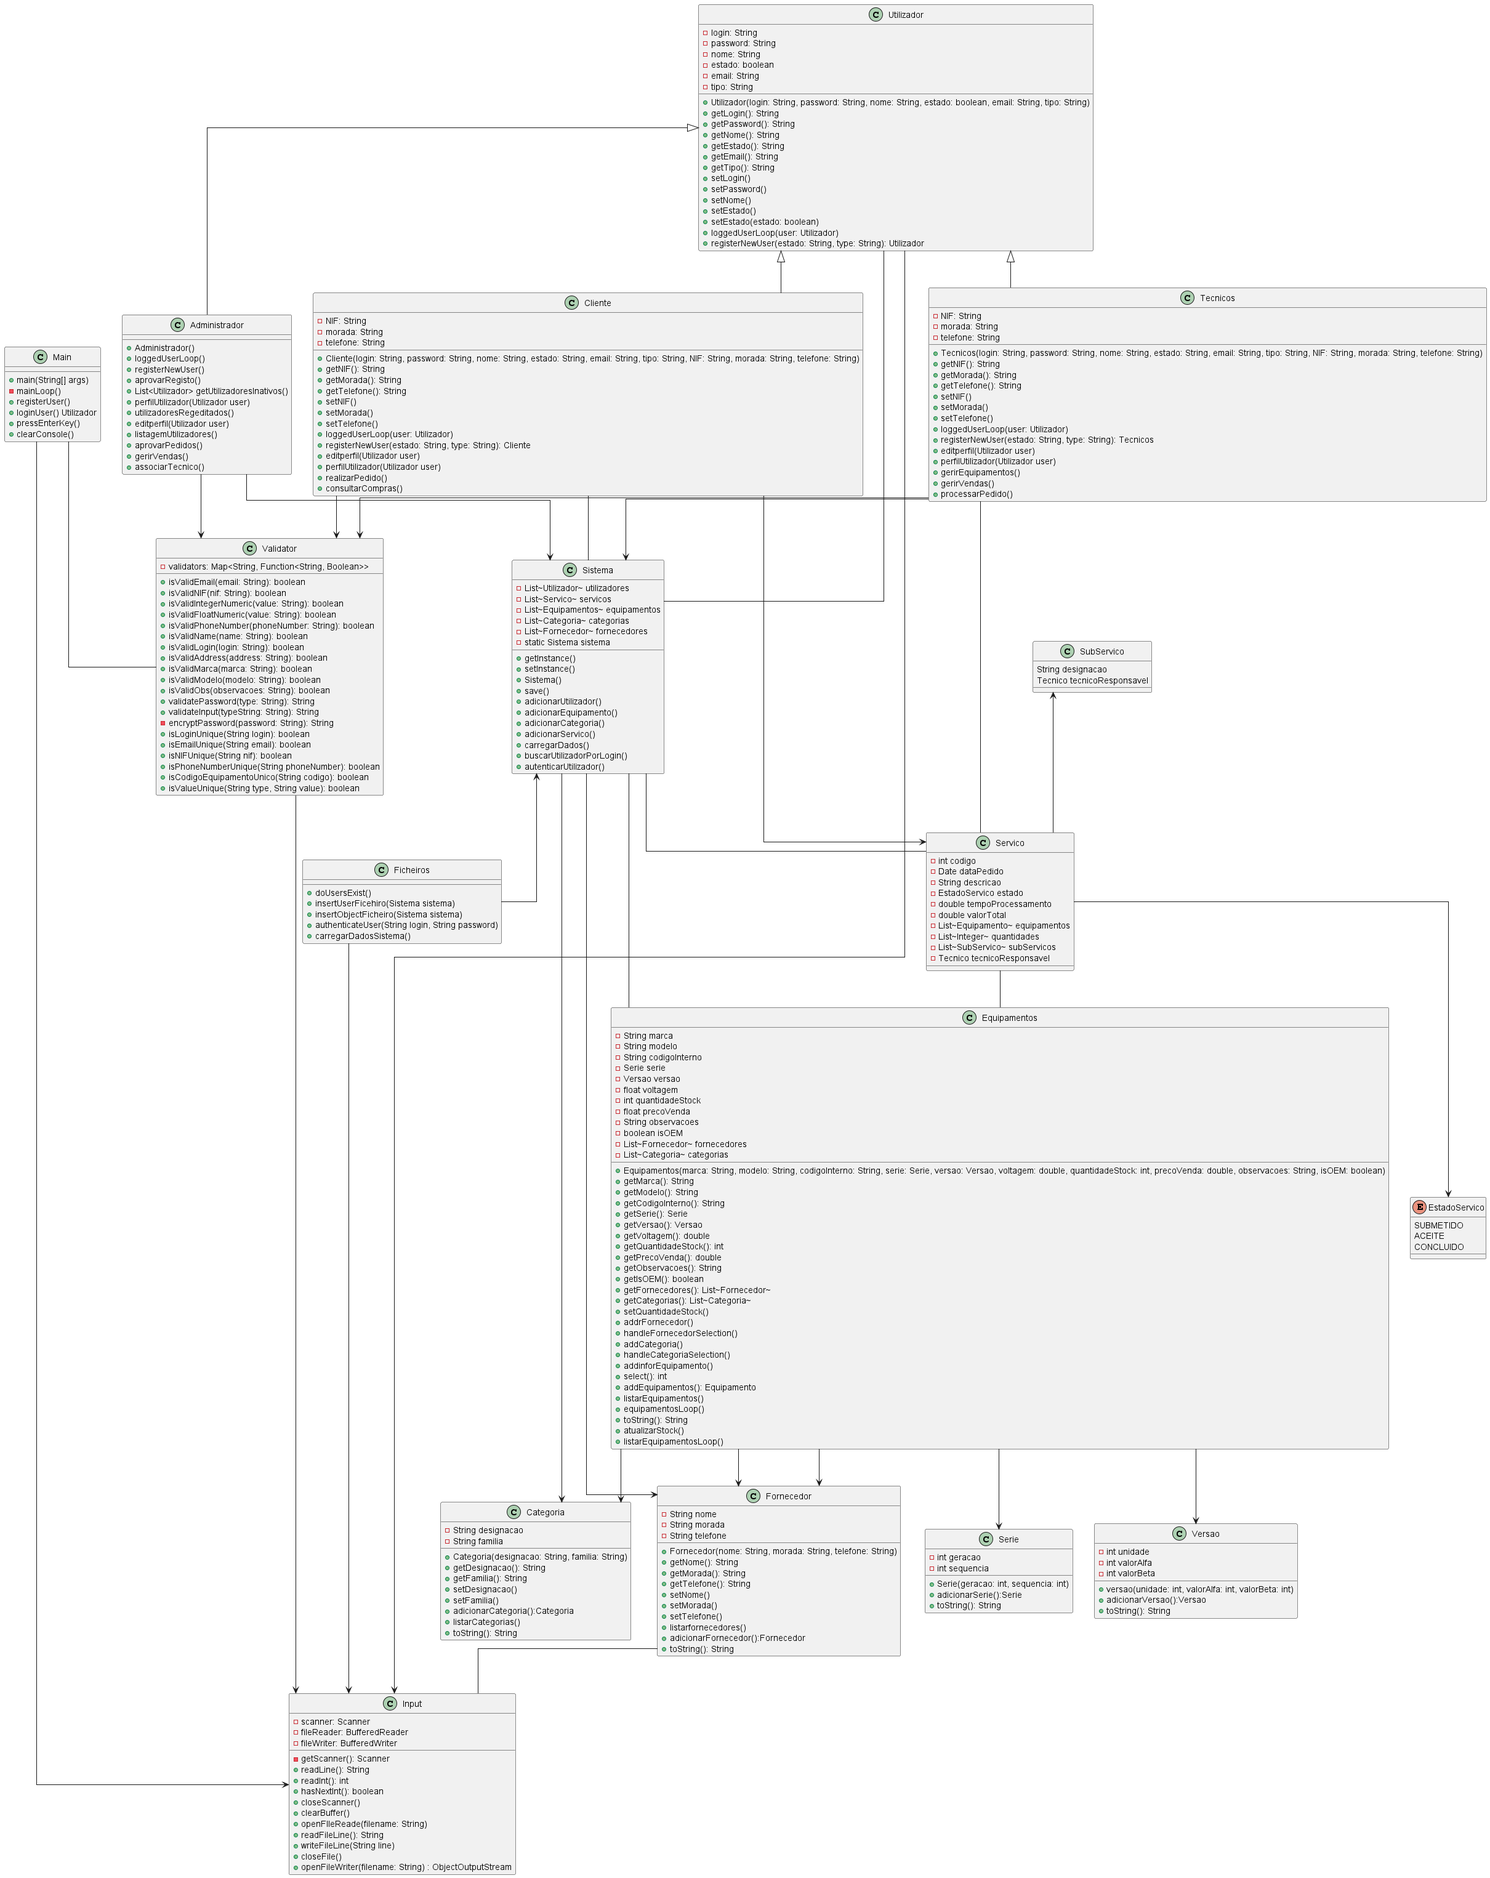
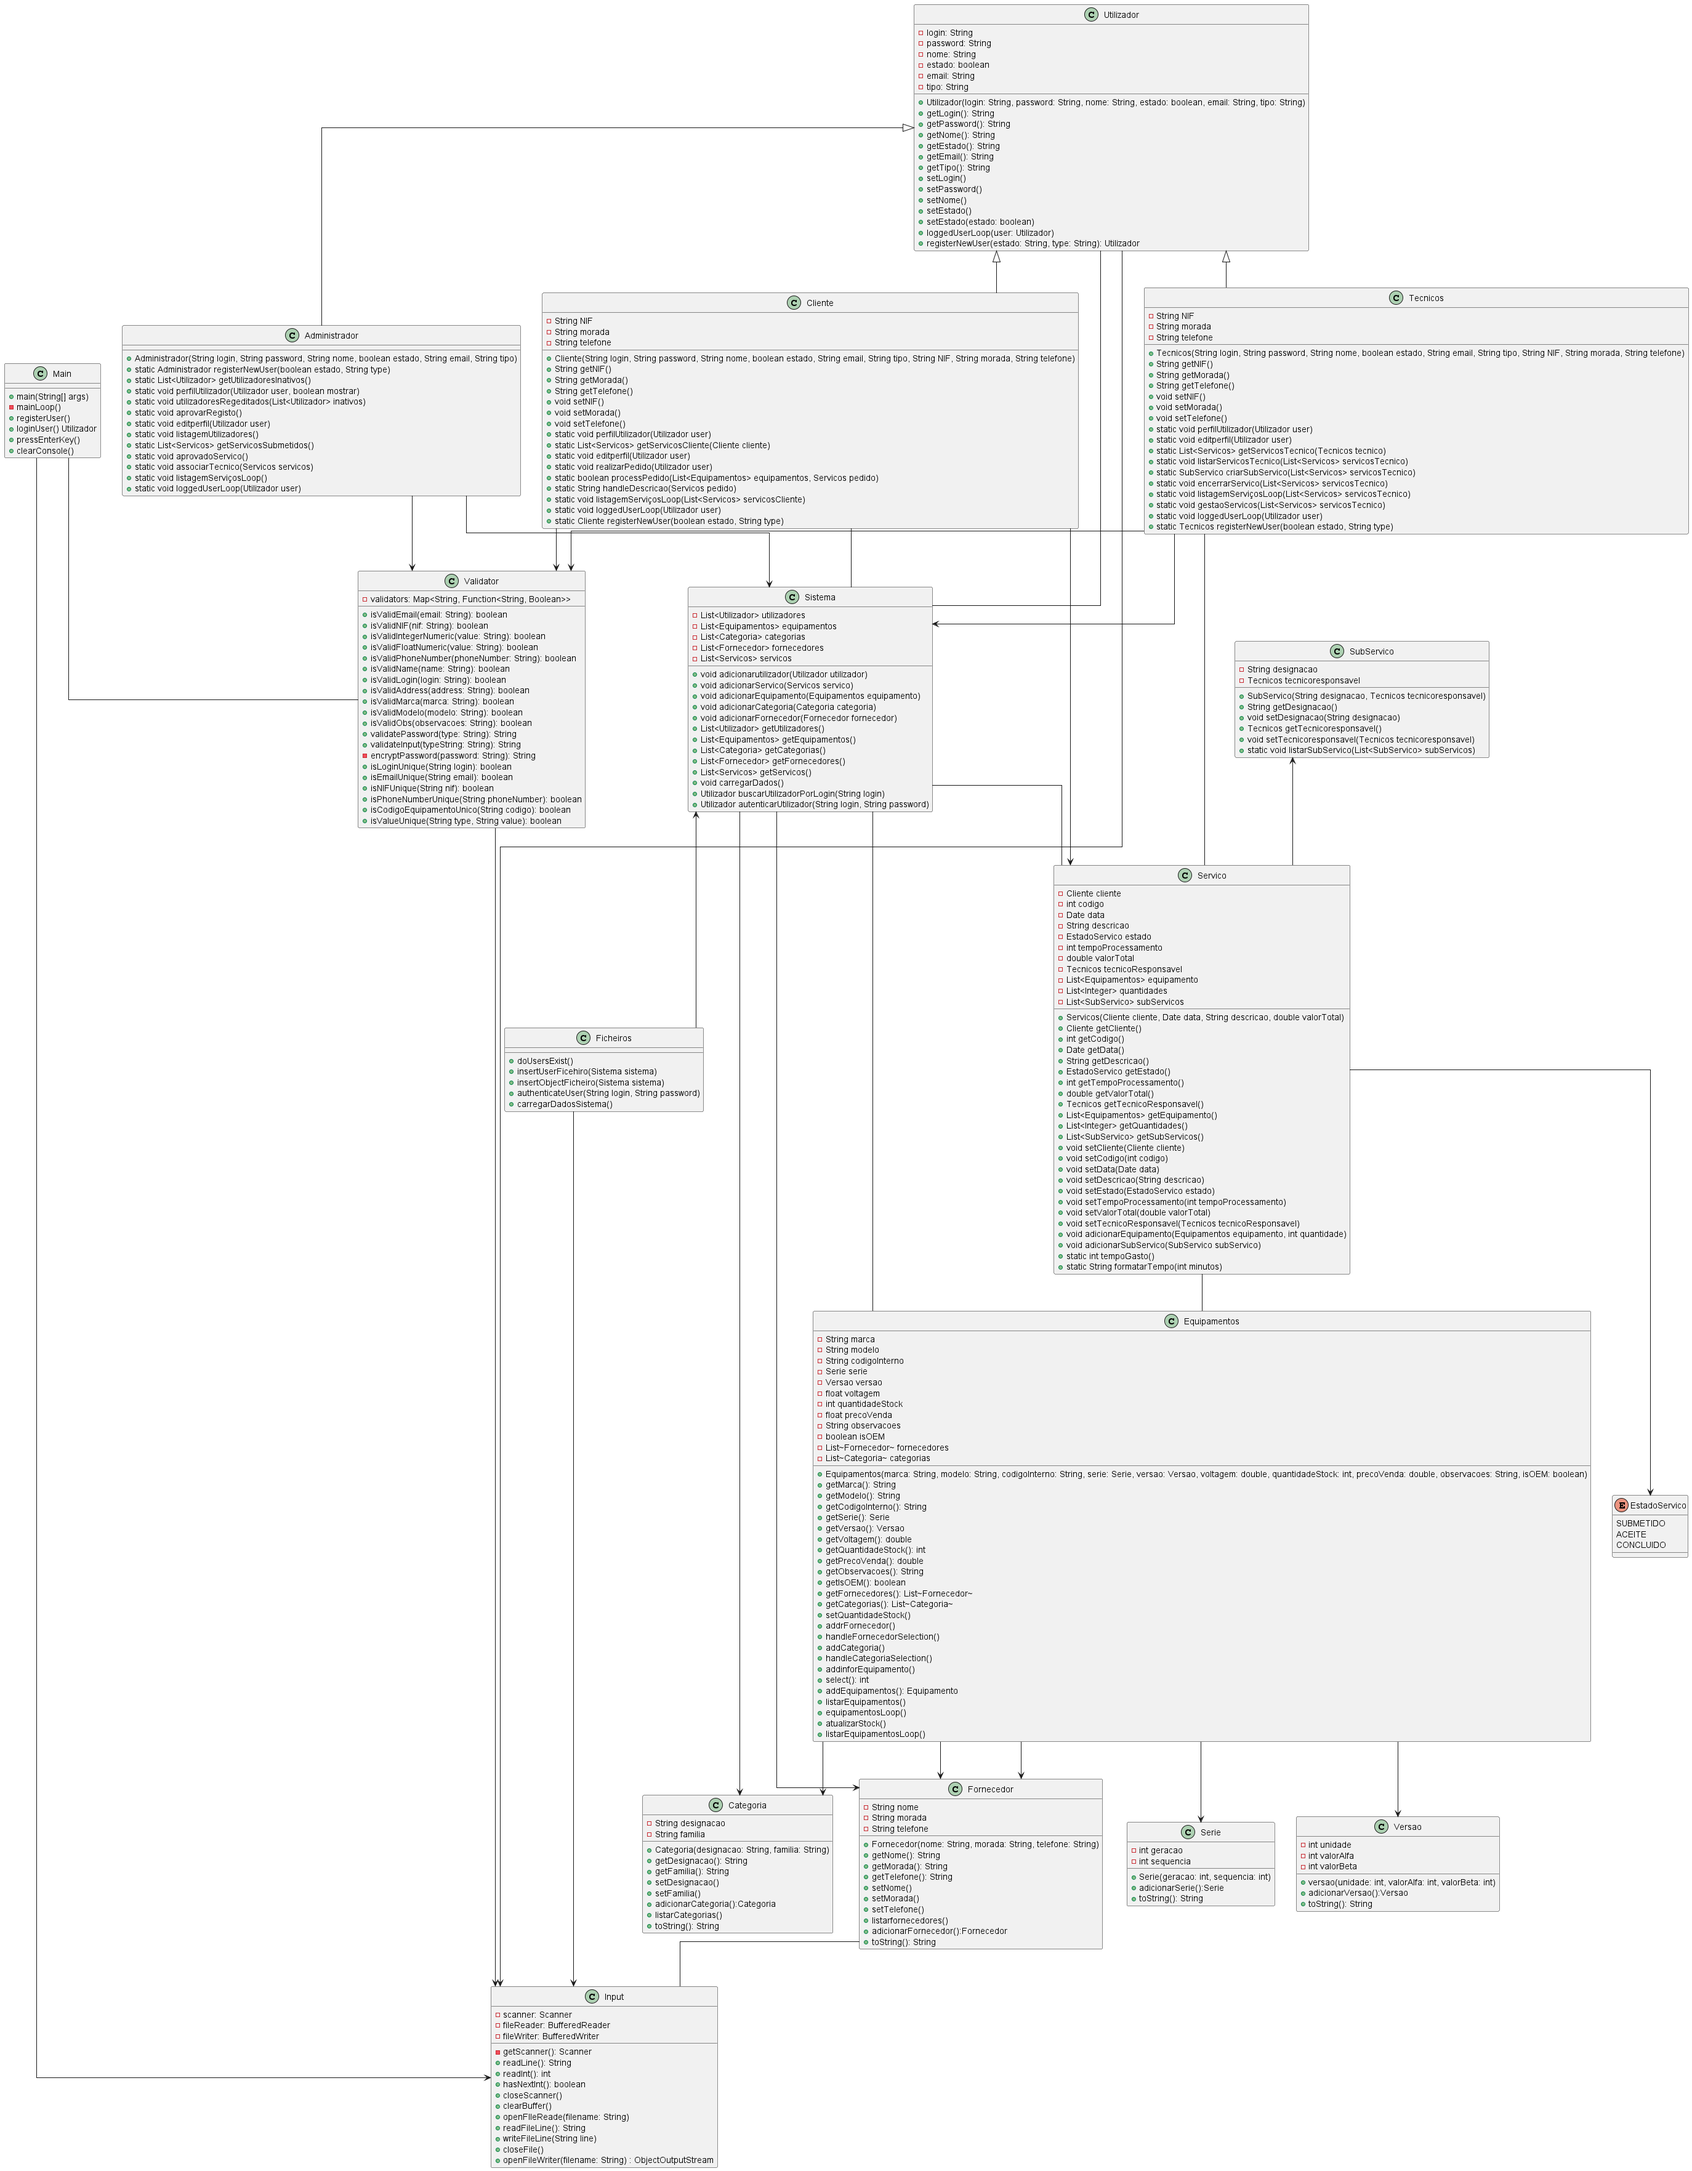
Adicionar classe InfoSistema para gerenciar informações do sistema; implementar métodos para carregar, salvar e listar dados do sistema; atualizar lógica de exibição e manipulação de serviços. falta apenas os logs

diff --git a/src/Servicos.java b/src/Servicos.java
@@ -31,48 +31,48 @@ public class Servicos implements Serializable {
     public Cliente getCliente() {
         return cliente;
     }
-    
+
     public int getCodigo() {
         return codigo;
     }
-    
+
     public Date getData() {
         return data;
     }
-    
+
     public String getDescricao() {
         return descricao;
     }
-    
+
     public void setDescricao(String descricao) {
         this.descricao = descricao;
     }
-    
+
     public EstadoServico getEstado() {
         return estado;
     }
-    
+
     public EstadoServico setEstado(EstadoServico estado) {
         this.estado = estado;
         return this.estado;
     }
-    
+
     public int getTempoProcessamento() {
         return tempoProcessamento;
     }
-    
+
     public void setTempoProcessamento(int tempoProcessamento) {
         this.tempoProcessamento = tempoProcessamento;
     }
-    
+
     public double getValorTotal() {
         return valorTotal;
     }
-    
+
     public void setValorTotal(double valorTotal) {
         this.valorTotal = valorTotal;
     }
-   
+
     public Tecnicos getTecnicoResponsavel() {
         return tecnicoResponsavel;
     }
@@ -88,6 +88,7 @@ public class Servicos implements Serializable {
     public List<Integer> getQuantidades() {
         return quantidades;
     }
+
     public List<SubServico> getSubServicos() {
         return subServicos;
     }
@@ -175,7 +176,6 @@ public class Servicos implements Serializable {
             return String.format("%d semanas e %d dias", semanas, dias);
         }
     }
-
 
     public static int tempoGasto() {
         int semanas = (Integer.parseInt(Validator.validateInput("Semanas")))* 7 * 24 * 60 ;

diff --git a/src/InfoSistema.java b/src/InfoSistema.java
@@ -1,0 +1,44 @@
+package src;
+import java.io.Serializable;
+
+public class InfoSistema implements Serializable {
+    private static final long serialVersionUID = 1L;
+    private static int numeroExecucoes;
+    private static String ultimoUtilizador;
+
+    public void incrementarExecucoes() {
+        numeroExecucoes++;
+    }
+
+    public void setUltimoUtilizador(String login) {
+        ultimoUtilizador = login;
+    }
+
+    public int getNumeroExecucoes() {
+        return numeroExecucoes;
+    }
+
+    public String getUltimoUtilizador() {
+        return ultimoUtilizador;
+    }
+
+    public static InfoSistema carregarDados() {
+        InfoSistema infoSistema = Ficheiros.carregarInfoSistema();
+        System.out.println("Carregando informações do sistema... " + infoSistema);
+        infoSistema.incrementarExecucoes();
+        return infoSistema;
+    }
+
+    public static void save(InfoSistema infoSistema) {
+       Ficheiros.salvarInfoSistema(infoSistema);
+    }
+
+    public static void listarInfoSistema() {
+        System.out.println("\n=== Informações do Sistema ===");
+        System.out.println("Número de execuções: " + numeroExecucoes);
+        if (!ultimoUtilizador.isEmpty()) {
+            System.out.println("Último utilizador: " + ultimoUtilizador);
+        }
+        System.out.println("============================\n");
+    }
+}

diff --git a/src/Administrador.java b/src/Administrador.java
@@ -1,5 +1,6 @@
 package src;
 
+import java.lang.ProcessHandle.Info;
 import java.util.Comparator;
 import java.util.List;
 
@@ -386,7 +387,8 @@ public class Administrador extends Utilizador {
             System.out.println("|3. Aprovar Serviço                   |");
             System.out.println("|4. Listagem de utilizadores          |");
             System.out.println("|5. Listagem de serviços              |");
-            System.out.println("|6. Sair                              |");
+            System.out.println("|6. Informações do sistema            |");
+            System.out.println("|7. Sair                              |");
             System.out.println("|-------------------------------------|");
             System.out.print("Option: ");
             String option = Input.readLine();
@@ -408,6 +410,10 @@ public class Administrador extends Utilizador {
                     listagemServiçosLoop();
                     break;
                 case "6":
+                    InfoSistema.listarInfoSistema();
+                    Main.pressEnterKey();
+                    break;
+                case "7":
                     Main.clearConsole();
                     System.out.println("Adeus " + user.getNome());
                     Main.pressEnterKey();

diff --git a/src/Main.java b/src/Main.java
@@ -1,10 +1,14 @@
 package src;
 
 public class Main {
+    private static InfoSistema infoSistema;
     public static void main(String[] args) {
         try {
             Sistema.getInstance().carregarDados();
             pressEnterKey();
+             // Carregar informações do sistema
+            infoSistema = InfoSistema.carregarDados();
+            Main.pressEnterKey();
             mainLoop();
         } catch (Exception e) {
             System.out.println("Exception: " + e);
@@ -38,6 +42,8 @@ public class Main {
                 case "0":
                     Sistema.getInstance().save();
                     clearConsole();
+                    Ficheiros.salvarInfoSistema(infoSistema);
+                    pressEnterKey();
                     System.out.println("A sair...");
                     running = false;
                     break;
@@ -58,6 +64,7 @@ public class Main {
         String password = Validator.encryptPassword(Input.readLine());
         Utilizador user = Sistema.getInstance().autenticarUtilizador(login, password);
         if (user != null) {
+            infoSistema.setUltimoUtilizador(user.getLogin());
             if(user.getEstado()){
                 clearConsole();
                 System.out.println("Bem-vindo " + user.getNome());

diff --git a/src/Ficheiros.java b/src/Ficheiros.java
@@ -100,4 +100,25 @@ public class Ficheiros {
         return null;
     }
 
+    public static void salvarInfoSistema(InfoSistema info) {
+        try (ObjectOutputStream oos = Input.openObjectWrite("docs/info_sistema.dat", false)) {
+            oos.writeObject(info);
+        } catch (IOException e) {
+            e.printStackTrace();
+        }
+    }
+
+    public static InfoSistema carregarInfoSistema() {
+        try (ObjectInputStream ois = new ObjectInputStream(new FileInputStream("docs/info_sistema.dat"))) {
+            InfoSistema info = (InfoSistema) ois.readObject();
+            System.out.println("Informações do sistema carregadas com sucesso.");
+            return info;
+        } catch (FileNotFoundException e) {
+            return new InfoSistema();
+        } catch (IOException | ClassNotFoundException e) {
+            e.printStackTrace();
+            return new InfoSistema();
+        }
+    }
+
 }

diff --git a/src/Cliente.java b/src/Cliente.java
@@ -57,7 +57,7 @@ public class Cliente extends Utilizador {
     }
 
     private static List<Servicos> getServicosCliente(Cliente cliente) {
-        List<Servicos> servicosCliente = Sistema.getInstance().getServicos().stream().filter(s -> s.getTecnicoResponsavel().equals(cliente)).toList();
+        List<Servicos> servicosCliente = Sistema.getInstance().getServicos().stream().filter(s -> s.getCliente().equals(cliente)).toList();
         if (servicosCliente.isEmpty()) {
             return null;
         }

diff --git a/src/Utilizador.java b/src/Utilizador.java
@@ -3,11 +3,11 @@ import java.io.Serializable;
 
 public class Utilizador implements Serializable{
     private static final long serialVersionUID = 1L;
-    private String login; //unico
+    private String login;
     private String password;
     private String nome;
     private boolean estado;
-    private String email; //unico
+    private String email;
     private String tipo;
 
     //construtor

diff --git a/src/Equipamentos.java b/src/Equipamentos.java
@@ -416,8 +416,4 @@ public class Equipamentos implements Serializable {
         }
     }
 
-    public String toString() {
-        return "Equipamento: " + marca + " " + modelo + ", Código: " + codigoInterno + ", Preço: " + precoVenda +
-               ", OEM: " + (isOEM ? "Sim" : "Não") + ", Quantidade: " + quantidadeStock;
-    }
 }

diff --git a/README.md b/README.md
@@ -21,13 +21,13 @@ contacto telefónico.
 
 ### Funções
 - [x] [R10] Os  administradores  aprovam  os  pedidos  de  registo  dos  utilizadores.  Todos  os  pedidos  devem  ser  aprovados antes de poderem ser usados para autenticação.
-- [ ] [R11] Os administradores  aprovam e encerram os  pedidos de serviço  (encomenda),  bem como  associam um técnico responsável a cada serviço.
+- [x] [R11] Os administradores  aprovam e encerram os  pedidos de serviço  (encomenda),  bem como  associam um técnico responsável a cada serviço.
 - [x] [R12] Os técnicos introduzem equipamentos, categorias e fornecedores.
 >[NOTE] vou assumir que quando for para intruduzir os equipamentos, já existam categoria e fornecedores criados e sendo assim ele tera de associar
-- [ ] [R13] Os clientes realizam pedidos de compras de equipamentos
-- [ ] [R14] Os administradores podem gerir todas as vendas realizadas.
-- [ ] [R15] Os técnicos apenas podem gerir as suas vendas.
-- [ ] [R16] Os clientes apenas podem gerir as suas compras
+- [x] [R13] Os clientes realizam pedidos de compras de equipamentos
+- [x] [R14] Os administradores podem gerir todas as vendas realizadas.
+- [x] [R15] Os técnicos apenas podem gerir as suas vendas.
+- [x] [R16] Os clientes apenas podem gerir as suas compras
 
 ### Ações
 - [x] [R17] O serviço de compra inicia com o cliente a solicitar uma encomenda, indicando os produtos pretendidos.
@@ -71,14 +71,14 @@ Equipment Manufacturer).
 - [x] [R47] Deve  ser  possível  listar  equipamentos  com  uma  quantidade  de  stock  abaixo  de  um  determinado  limite
 (introduzido pelo utilizador no momento de pesquisa).
 - [x] [R49] Deve ser possível pesquisar utilizadores por login ou nome.
-- [ ] [R50] Deve ser possível pesquisar serviços por código ou uma palavra que surja na descrição.
+- [x] [R50] Deve ser possível pesquisar serviços por código ou uma palavra que surja na descrição.
 - [x] [R51] Deve ser possível pesquisar equipamentos por marca ou código.
 - [x] [R52] Deve ser possível pesquisar equipamentos que possuem uma determinada categoria.
 - > [Note] assumir que categoria é a designação dela
 - [x] [R53] Deve ser possível realizar pesquisas avançadas, ou seja, apresentar todos os registos que apresentem um termo de pesquisa, mesmo que parcialmente
 - (e.g. termo de pesquisa “Ana” deve apresentar como resultado “Ana Sousa”, “Ana Silva” e “Anabela”).
 
-- [ ] [R54] Os clientes podem listar e pesquisar os seus serviços que realizaram.
+- [x] [R54] Os clientes podem listar e pesquisar os seus serviços que realizaram.
 - [x] [R55] Os técnicos podem listar e pesquisar os seus serviços que processaram.
 - [x] [R56] Os administradores podem listar e pesquisar todos os serviços.
 
@@ -90,15 +90,15 @@ Equipment Manufacturer).
 
 ## Gestão geral da aplicação
 ### Interacção com o utilizador
-- [ ] [R61] Disponibilizar uma interface em modo texto onde o utilizador possa interagir e controlar a aplicação.
+- [x] [R61] Disponibilizar uma interface em modo texto onde o utilizador possa interagir e controlar a aplicação.
 
 ### Monitorização de acessos
 - [ ] [R62] Todas as acções dos utilizadores deverão ser guardadas num ficheiro de texto denominado “log.txt”.
 Este ficheiro deverá ser escrito de forma sequencial, apresentando as acções mais recentes no início do
 ficheiro.
 As entradas deverão ter o seguinte formato: <utilizador> <acção>.
-- [ ] [R63] Deve ser possível consultar o log de acções através da aplicação.
-- [ ] [R64] Deverá ser registado o número total (até ao momento) de execuções do sistema e o username do último
+- [] [R63] Deve ser possível consultar o log de acções através da aplicação.
+- [x] [R64] Deverá ser registado o número total (até ao momento) de execuções do sistema e o username do último
 utilizador que acedeu à aplicação.
 Esta informação deverá ser guardada num ficheiro de objectos e actualizada sempre que a aplicação é
 executada, apresentando os dados ao utilizador.
@@ -106,13 +106,13 @@ Quando a aplicação é terminada esta informação deve ser novamente armazenad
 denominado “info_sistema.dat”.
 
 ### Programação Orientada a Objectos
-- [ ] [R65] A aplicação deve estar correctamente  estruturada, tendo em conta o paradigma Orientado a Objectos e recorrendo à linguagem Java.
-- [ ] [R66] Implemente as estruturas de armazenamento necessárias, procurando optimizar os recursos utilizados.
+- [x] [R65] A aplicação deve estar correctamente  estruturada, tendo em conta o paradigma Orientado a Objectos e recorrendo à linguagem Java.
+- [x] [R66] Implemente as estruturas de armazenamento necessárias, procurando optimizar os recursos utilizados.
 
 ### Validação de dados e notificações
-- [ ] [R67] Valide todas as leituras de dados do utilizador
+- [x] [R67] Valide todas as leituras de dados do utilizador
 - (e.g. verifique se os nomes são únicos).
-- [ ] [R68] Sempre que necessário, apresentar ao utilizador mensagens informativas adequadas.
+- [x] [R68] Sempre que necessário, apresentar ao utilizador mensagens informativas adequadas.
 - Quando um utilizador realizar uma acção sobre a aplicação, esta deve informar se acção foi realizada com sucesso ou insucesso.
 
 - utilizar a classe sistemas para guardar varios objetos do mesmo tipo dentro depois do ficheiro.
